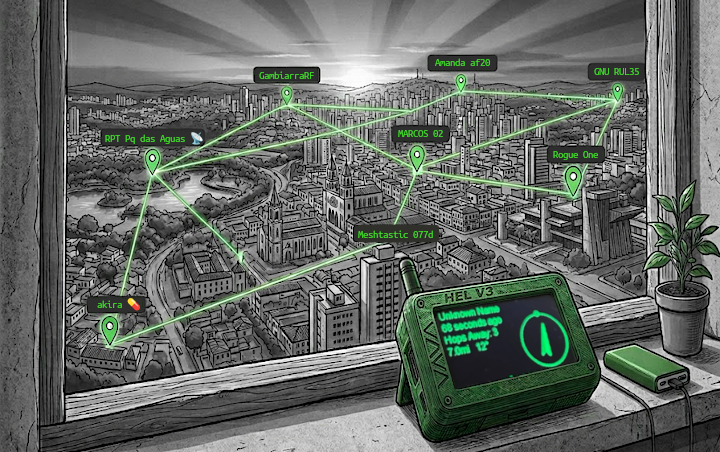
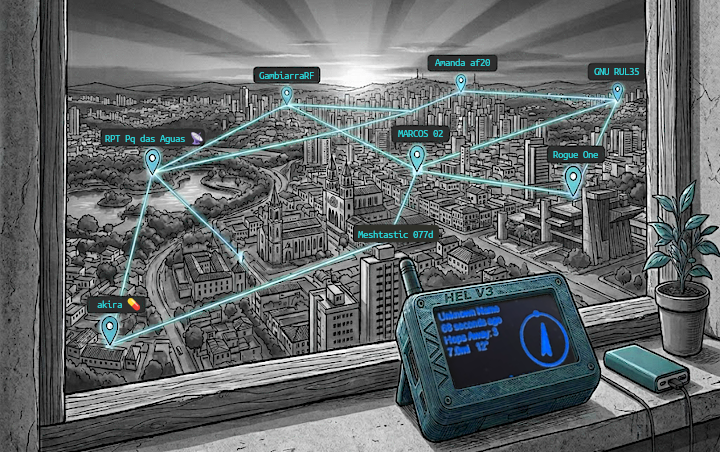
Add MeshCore to the list of supported meshes

diff --git a/docs/styles/extra.css b/docs/styles/extra.css
@@ -3,9 +3,9 @@
 /* Custom Palette for Meshtastic */
 :root * {
 	/* Meshtastic theme colors */
-	--mt-primary-color: #67EA94;
-	--mt-primary-color--transparent: #67EA9488;
-	--mt-secondary-color: #2C2D3C;
+	--mt-primary-color: #0d1b2a;
+	--mt-primary-color--transparent: #273e6188;
+	--mt-secondary-color: #d8d9e9;
 
 	/* Primary colors */
 	--md-primary-fg-color: var(--mt-primary-color);
@@ -35,6 +35,10 @@
 	Content Customization
 */
 
+.md-header {
+	background-color: var(--mt-primary-color);
+}
+
 /* Use Rubik for headings */
 .md-content h1,
 .md-content h2,
@@ -54,15 +58,22 @@ img {
 	border-radius: 0.25rem;
 }
 
+.md-content a {
+	color: #70a2e4;
+}
 /* Show underline on links when hovered */
 .md-content a:hover {
 	text-decoration: underline;
+	color: var(--md-default-fg-color--light);
 }
 
 /*
 	Header Tab Customization
 */
 
+.md-tabs {
+	background-color: var(--mt-primary-color);
+}
 .md-tabs__link {
 	opacity: 1;
 	padding: 0.25rem 0.5rem;
@@ -70,12 +81,20 @@ img {
 }
 
 .md-tabs__link:hover {
-	background-color: #FFFFFF66;
+	background-color: #ffffff25;
 }
 
 .md-tabs__item--active > .md-tabs__link {
 	background-color: var(--mt-secondary-color);
 	color: var(--mt-primary-color);
+}
+
+.md-nav__link[href]:hover {
+	color: #70a2e4;
+}
+
+.md-nav__link--active, .md-nav__item .md-nav__link--active {
+  color: #70a2e4;
 }
 
 /*

diff --git a/docs/guia-rapido.md b/docs/guia-rapido.md
@@ -1,8 +1,8 @@
 # Guia Rápido
 
-## Como funciona a rede
+## Como funciona uma rede mesh
 
-A rede Meshtastic funciona como um sistema de mensagens que **não depende de wifi nem de sinal de celular**. Imagine uma conversa por WhatsApp, mas com a capacidade de enviar mensagens de texto que podem "saltar" de um dispositivo para outro até chegar ao destinatário sem depender da internet.
+Redes mesh, ou simplesmente malhas, funcionam como um sistema de mensagens que **não depende de wifi nem de sinal de celular**. Imagine uma conversa por WhatsApp, mas com a capacidade de enviar mensagens de texto que podem "saltar" de um dispositivo para outro até chegar ao destinatário sem depender da internet.
 
 Cada dispositivo na rede é chamado de **nó**. Quando você envia uma mensagem, ela viaja de nó em nó até encontrar quem deve recebê-la. Quanto mais pessoas participam da rede com seus dispositivos, maior é o alcance e melhor funciona a comunicação para todos.
 
@@ -17,7 +17,7 @@ Cada dispositivo na rede é chamado de **nó**. Quando você envia uma mensagem,
 
 ## Escolhendo um dispositivo
 
-Existem vários modelos de dispositivos compatíveis com Meshtastic. Para quem está começando, recomendamos considerar os seguintes fatores:
+Existem vários modelos de dispositivos compatíveis com o MeshCore e o Meshtastic. Via de regra, se um dispositivo é anunciado como feito para o Meshtastic, quase sempre funciona para o MeshCore também. Na dúvida, consulte-nos nos canais do Telegram.
 
 ### Dispositivos prontos para uso
 
@@ -32,7 +32,7 @@ São aparelhos que já vêm montados e prontos para usar — basta carregar a ba
 
 O Heltec V3 normalmente é recomendado para iniciantes por ser mais barato. Porém, ele é baseado no chip ESP32 e consome bateria 15x mais rápido que dispositivos baseados no chip nRF52840 (como os da marca RAK), que são mais eficientes porém um pouco mais caros. Por outro lado, o chip nRF52840 não possui WiFi, então a conexão com celular só é possível via Bluetooth ou cabo USB.
 
-!!! warning
+!!! warning "Atenção"
     Na hora da compra, independente da marca do dispositivo, certifique-se que ele é capaz de transmitir na faixa de **915 MHz**.
 
 ### Antenas
@@ -41,7 +41,7 @@ A antena que acompanha o dispositivo geralmente é suficiente para uso comum, ma
 
 ## Onde comprar
 
-Você pode encontrar dispositivos Meshtastic em lojas internacionais e em alguns vendedores brasileiros:
+Você pode encontrar dispositivos compatíveis com Meshtastic (e, consequentemente, MeshCore) em lojas internacionais e em alguns vendedores brasileiros:
 
 ### Lojas internacionais
 
@@ -49,37 +49,25 @@ Você pode encontrar dispositivos Meshtastic em lojas internacionais e em alguns
 - **Amazon (EUA)**: Entrega mais rápida, mas frete mais caro.
 - **Lilygo Store** (AliExpress): Loja oficial do fabricante Lilygo.
 
+!!! warning "Atenção"
+    Verifique se o dispositivo é compatível com a frequência **915 MHz**, que é a autorizada no Brasil. Alguns modelos são vendidos em frequências diferentes (como 868 MHz ou 433 MHz) e **não podem ser usados legalmente no país**.
+
 ### Vendedores nacionais
 
 Alguns membros da comunidade Meshtastic Brasil revendem dispositivos já trazidos para o país. A vantagem é a entrega mais rápida e suporte em português. Consulte o grupo [Meshtastic Brasil no Telegram](https://t.me/meshtastic_br) para indicações atualizadas.
 
-!!! warning "Cuidado"
-    Verifique se o dispositivo é compatível com a frequência **915 MHz**, que é a autorizada no Brasil. Alguns modelos são vendidos em frequências diferentes (como 868 MHz ou 433 MHz) e **não podem ser usados legalmente no país**.
 
 ## Configuração inicial
 
-Depois de adquirir seu dispositivo, siga estes passos básicos:
+Depois de adquirir seu dispositivo, escolha qual sistema instalar:
 
-### 1. Instale o aplicativo
+- Se você quer fazer uso extensivo de sensores (temperatura, luminosidade, umidade, etc.) e monitorá-los de forma rápida e fácil pela Internet, ou brincar com a troca de mensagens via rede mesh em pequenos grupos (acampamentos, shows, eventos), use o Meshtastic.
+- Se você quer se dedicar à troca de mensagens com a comunidade de Sorocaba e região, com maior garantia de que suas mensagens chegarão ao destino, use o MeshCore.
 
-Baixe o aplicativo Meshtastic no seu celular:
+**tl;dr** Ambos o MeshCore e o Meshtastic são sistemas de mensagens em mesh que oferecem a opção de mensagens públicas ou privadas (e criptografadas). O Meshtastic possui mais usuários, porém funciona melhor com pequenos grupos. O MeshCore possui um algoritmo de roteamento mais robusto, sendo mais indicado para a comunicação entre comunidades.
 
-- **Android**: [Google Play](https://play.google.com/store/apps/details?id=com.geeksville.mesh) ou [F-Droid](https://f-droid.org/packages/com.geeksville.mesh/)
-- **iOS**: [App Store](https://apps.apple.com/us/app/meshtastic/id1589025257)
-
-### 2. Pareie o dispositivo
-
-1. Ligue o dispositivo Meshtastic
-2. Ative o Bluetooth do celular
-3. Abra o aplicativo e toque em "Conectar"
-4. Selecione seu dispositivo na lista
-
-### 3. Configure seu dispositivo para a Mesh Sorocaba
-
-No aplicativo, use as [configurações recomendadas para a Mesh Sorocaba](configuracao.md).
-
-Se houver outros nós por perto, você eventualmente verá eles aparecerem na lista de nós do aplicativo. Isso pode levar um tempo (algumas horas), já que os dispositivos são configurados com um certo intervalo para não ocuparem constantemente a banda. Tente enviar uma mensagem no canal público para verificar se está tudo funcionando.
-
+!!! info "Nota"
+    Ambos os sistemas funcionam melhor quando um "nó" é instalado em uma localização mais privilegiada, como no telhado, na sacada de prédios ou em postes altos e dedicado somente à repetição de mensagens. Portanto, é aconselhável a aquisição de no mínimo dois dispositivos: um como repetidor, outro para dentro das residências ou uso móvel.
 
 ## Dúvidas frequentes
 

diff --git a/docs/index.md b/docs/index.md
@@ -1,31 +1,34 @@
-# Comunidade Meshtastic de Sorocaba e Região
+# Comunidade Mesh Sorocaba
 
-O Mesh Sorocaba é uma iniciativa comunitária dedicada a promover, integrar e expandir a rede [Meshtastic](https://meshtastic.org/) — uma rede de comunicação descentralizada que não depende da Internet ou de celular. O foco dessa iniciativa é cobrir a região de Sorocaba e municípios vizinhos, como Votorantim, Salto de Pirapora, Araçoiaba da Serra, Iperó, Porto Feliz, Itu, Mairinque, Alumínio e outros.
+A Mesh Sorocaba é uma iniciativa comunitária para criar uma rede de comunicação descentralizada, que não dependa da Internet ou de redes de celular. Ela pode servir para comunicação de emergência, mas também para mensagens privadas do dia-a-dia. Utizamos dispositivos **LoRa**, que são transmissores de rádio de baixa potência, conectados a celulares e notebooks para trocar mensagens. O principal objetivo é integrar os municípios de Sorocaba e região: Votorantim, Salto de Pirapora, Araçoiaba da Serra, Iperó, Porto Feliz, Itu, Mairinque, Alumínio e outros.
 
 <p align="center">
    <img src="/img/sorocaba.png">
 </p>
 
-## O que é Meshtastic?
+Essa a tecnologia tem sido usada com sucesso pelo mundo em [cenários de catástrofes naturais](https://nodakmesh.org/blog/meshcore-emergency-preparedness) e [comunicação de grupos em locais sem infraestrutura](https://blog.noforeignland.com/off-grid-boat-communications-with-meshtastic/). No Brasil, tivemos em março de 2026 o [primeiro simulado geral da Defesa Civil](https://www.facebook.com/groups/276059605530869/posts/758395703963921/) usando esses dispositivos.
 
-Meshtastic é uma plataforma de comunicação de código aberto que permite a troca de mensagens entre dispositivos usando módulos de rádio LoRa (Long Range). A principal vantagem é que não depende de infraestrutura de Internet ou redes de celular; os dispositivos comunicam-se diretamente entre si, formando uma malha (mesh) de comunicação. A tecnologia tem sido usada com sucesso pelo mundo em [cenários de catástrofes naturais](https://www.seeedstudio.com/blog/2025/10/30/building-resilient-communication-germany-meshtastic-solar-nodes/) e [comunicação de grupos em locais sem infraestrutura](https://blog.noforeignland.com/off-grid-boat-communications-with-meshtastic/). No Brasil, tivemos em março de 2026 o [primeiro simulado geral da Defesa Civil usando Meshtastic](https://www.facebook.com/groups/276059605530869/posts/758395703963921/).
+## Como funciona?
 
- Leia mais em [Guia Rápido](guia-rapido.md).
+Para usufruir da rede, utilizamos dispositivos que contém chips de rádio LoRa, que são transmissores de baixa potência e não exigem licença de radioamador. Esses dispositivos podem ser adquiridos prontos através de lojas online ou montados por conta própria com peças individuais.
 
-## Missão do Mesh Sorocaba
+Uma vez que você tenha o dispositivo em mãos, você deverá instalar o software para poder utilizá-lo. A Mesh Sorocaba utiliza o MeshCore e o Meshtastic.  Ambos os softwares tem código aberto e são distrubuídos livremente, mas cada um com um propósito diferente. 
 
-1. **Divulgação**: Educar a comunidade sobre os benefícios e possibilidades da tecnologia Meshtastic.
-2. **Coordenação**: Alinhar as configurações dos nós da região de modo a manter a malha funcionando.
-3. **Expansão**: Aumentar a cobertura da rede na região através da instalação de novos nós.
-4. **Suporte**: Oferecer ajuda na configuração de dispositivos e solução de problemas.
-5. **Inovação**: Explorar novas aplicações e usos para a rede mesh.
+O Meshtastic é o mais apropriado como porta de entrada para a tecnologia mesh. Funciona excelente para pequenos grupos e saídas em campo, onde cada usuário é re-encaminha as mensagens de todos os participantes da malha. Também é ótimo para conectar e monitorar sensores IoT.
+
+O MeshCore, por outro lado, funciona melhor para redes de comunicação maiores. Este sistema garante que as mensagens cheguem ao destino com mais eficiência, mesmo que várias regiões metropolitanas estejam conectadas. 
+
+**O MeshCore é o software recomendado pela Mesh Sorocaba como canal de comunicação oficial entre as cidades.** Mas apesar disso, convidamos a exploração de ambas as tecnologias. 
+
+Leia mais em [Guia Rápido](guia-rapido.md).
 
 ## Participe
 
-A Mesh Sorocaba faz parte da comunidade Meshtastic Brasil. Se você tem interesse em tecnologia, comunicação alternativa ou simplesmente quer se preparar para situações de emergência, junte-se a nós na [Comunidade Meshtastic Brasil](https://t.me/meshtastic_br) e na [Meshtastic Sorocaba](https://t.me/meshsorocaba), ambos no Telegram. Não é necessário conhecimento técnico avançado — estamos lá para ajudar.
+Se você tem interesse em tecnologia, comunicação alternativa ou simplesmente quer se preparar para situações de emergência, junte-se a nós nos grupos do **Telegram**. Não é necessário conhecimento técnico avançado — estamos lá para ajudar:
 
-!!! tip "Dica"
-    Lembre-se de visitar a seção [Configuração Regional](configuracao.md) para certificar-se de que você está usando as configurações ideais para a nossa região e caso de uso!
+- [Mesh Sorocaba](https://t.me/meshsorocaba)
+- [MeshCore Brasil](https://t.me/meshcorebrasil)
+- [Meshtastic Brasil](https://t.me/meshtastic_br)
 
 ## Contato
 

diff --git a/docs/configuracao-meshtastic.md b/docs/configuracao-meshtastic.md
@@ -1,0 +1,58 @@
+# Configuração recomendada
+
+### LoRa
+
+- **Região**: `Australia / Brazil / New Zealand`
+- **Use Preset**: `ligado`
+- **Modem Preset**: `LONG_FAST`
+- **OK to MQTT**: `ligado`
+- **Transmit Enabled**: `ligado`
+- **Ignorar ciclo de trabalho**: `ligado`
+- **Number of Hops**: `7`
+- **Slot**: `0` ou `20`
+- **RX Boosted Gain**: `ligado`
+
+A região `Australia / Brazil / New Zealand` corresponde à faixa de 915 a 928 MHz, liberada pela ANATEL para dispositivos de radiação restrita com até 1W de potência. Apesar de haver uma região chamada `Brazil 902`, que vai de 902 a 908 MHz, a maioria dos dispositivos no país utiliza a primeira opção.
+
+A opção **OK to MQTT** permite que o dispositivo seja monitorado pelas ferramentas web e auxilia na coordenação da rede, por isso é sugerido que permaneça ligado.
+
+**Ignorar ciclo de trabalho** permite que o dispositivo opere a qualquer momento. Ele deve permanecer `ligado` (limites de ciclo só são exigidos na Europa).
+
+No número do slot, deixe em `0` para que o número seja calculado automaticamente com base no nome do preset (`LONG_FAST`), ou digite `20` para fixá-lo. O recomendado é `0` e deixar que o programa calcule o valor automaticamente.
+
+### Canais
+
+- **Nome do canal**: `LongFast`
+- **PSK**: `AQ==`
+- **Uplink ativado**: `ligado`
+- **Downlink ativado**: `desligado`
+- **Posição ativada**: `ligado`
+
+`LongFast` é o canal público padrão para o preset `LONG_FAST`; deve ser o primeiro canal da lista.
+
+`AQ==` é a chave padrão do canal.
+
+**Uplink ativado** permite que o dispositivo apareça nas ferramentas web e auxilia na coordenação da rede.
+
+**Downlink ativado** deve ficar `desligado` para que mensagens públicas sejam recebidas somente via rádio; isso evita retransmissões desnecessárias do servidor MQTT para o rádio.
+
+### Usuário
+
+- **Nome**: qualquer
+- **Short Name**: 4 caracteres ou um emoji
+
+### MQTT
+
+- **Endereço**: `mqtt.meshsorocaba.org`
+- **Nome de usuário**: `meshdev`
+- **Senha**: `large4cats`
+- **Criptografia ativada**: `ligado`
+- **Saída JSON ativada**: `desligado`
+- **TLS ativado**: `desligado`
+- **Tópico principal**: `msh/BR/meshsorocaba`
+- **Proxy para cliente ativado**: `ligado` ou `desligado`
+
+O endereço `mqtt.meshsorocaba.org` tem downlink desabilitado por padrão; posição e telemetria são encaminhados para o servidor oficial Meshtastic somente para fins estatísticos e ajudar a promover a rede.
+
+**Proxy para cliente ativado** deve ficar `ligado` se o dispositivo só pode se comunicar pela internet através do seu celular.
+

diff --git a/docs/recursos.md b/docs/recursos.md
@@ -1,0 +1,9 @@
+## MeshCore
+
+- [Configuração Recomendada](configuracao-meshtastic.md): Como configurar seu dispositivo MeshCore para operar na Mesh Sorocaba.
+- [Gerador de nomes para repetidoras](nomes-repetidoras.md): Auxilia na escolha de um nome para sua repetidora MeshCore.
+
+## Meshtastic
+
+- [Configuração Recomendada](configuracao-meshtastic.md): Como configurar seu dispositivo Meshtastic para operar na Mesh Sorocaba.
+- [Meshview](https://meshview.meshsorocaba.org): Mapa e informações estatísticas sobre a malha Meshtastic de Sorocaba.

diff --git a/docs/blog/posts/teste.md b/docs/blog/posts/teste.md
@@ -1,0 +1,11 @@
+---
+date: 2023-12-31
+---
+
+# Happy new years eve!
+
+We hope you are all having fun and wish you all the best for the new year!
+<!-- more -->
+
+Lorem ipsum dolor sit amet, consectetur adipiscing elit, sed do eiusmod
+tempor incididunt ut labore et dolore magna aliqua.
